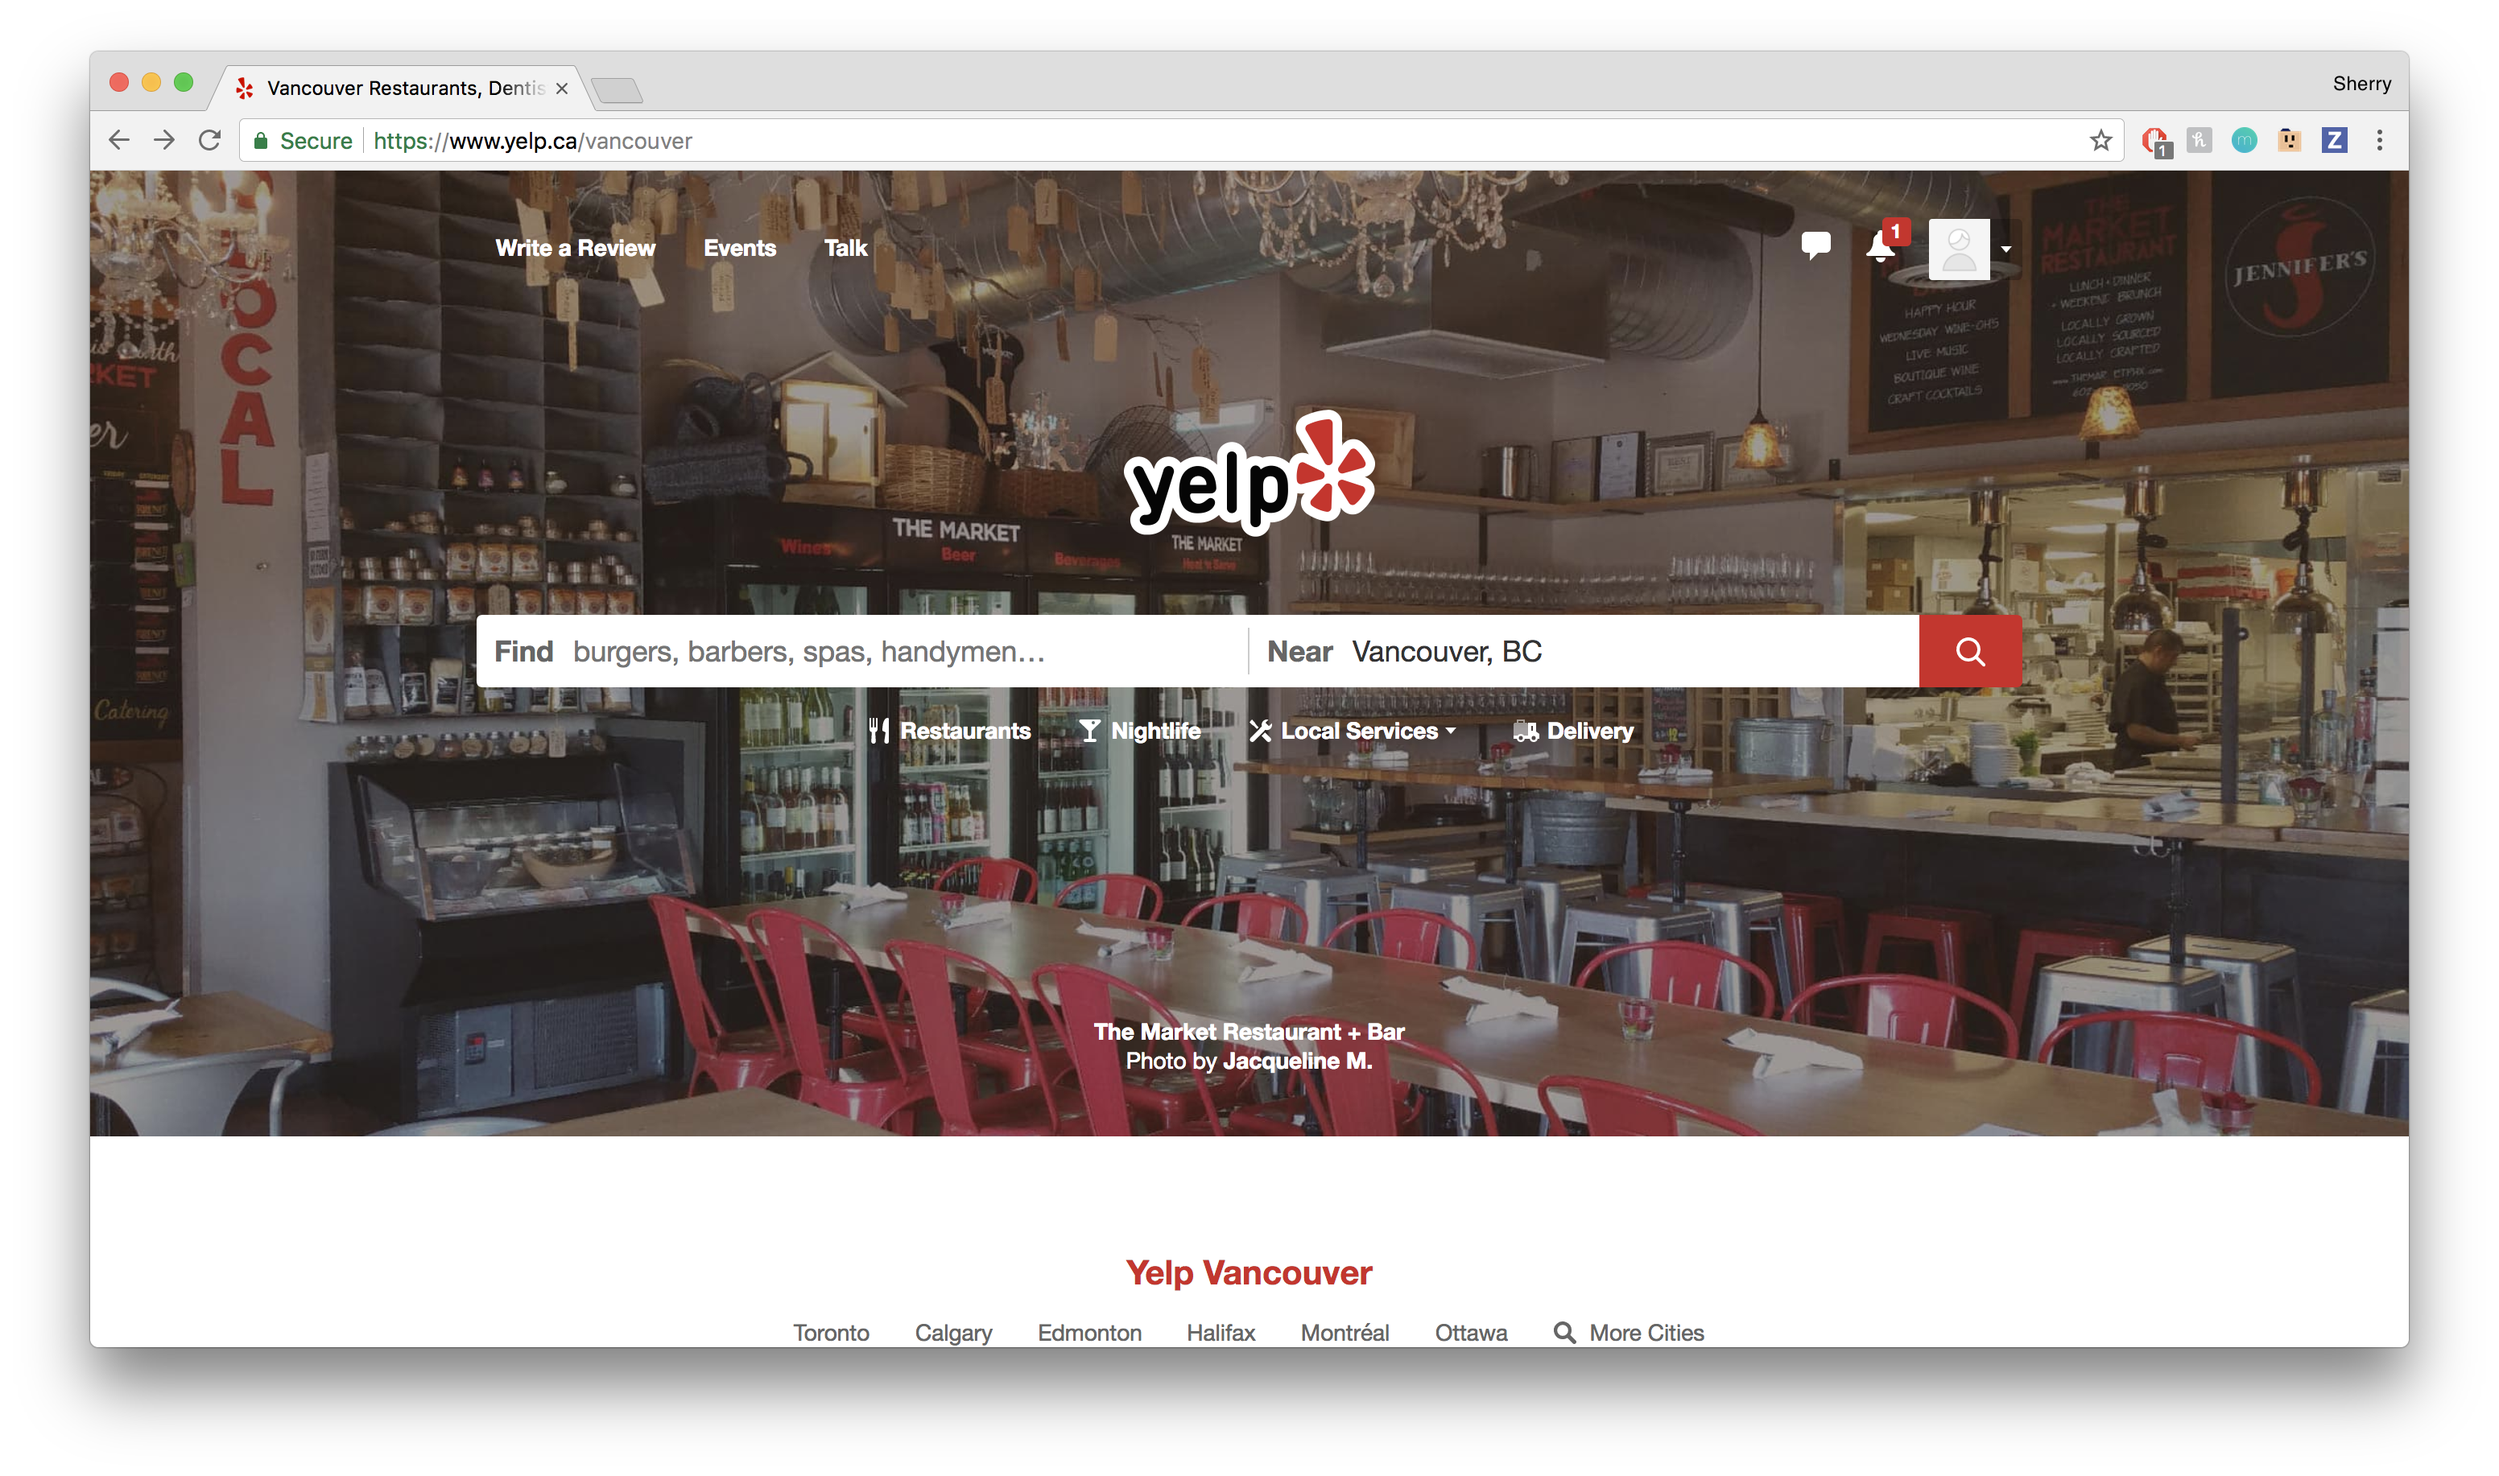
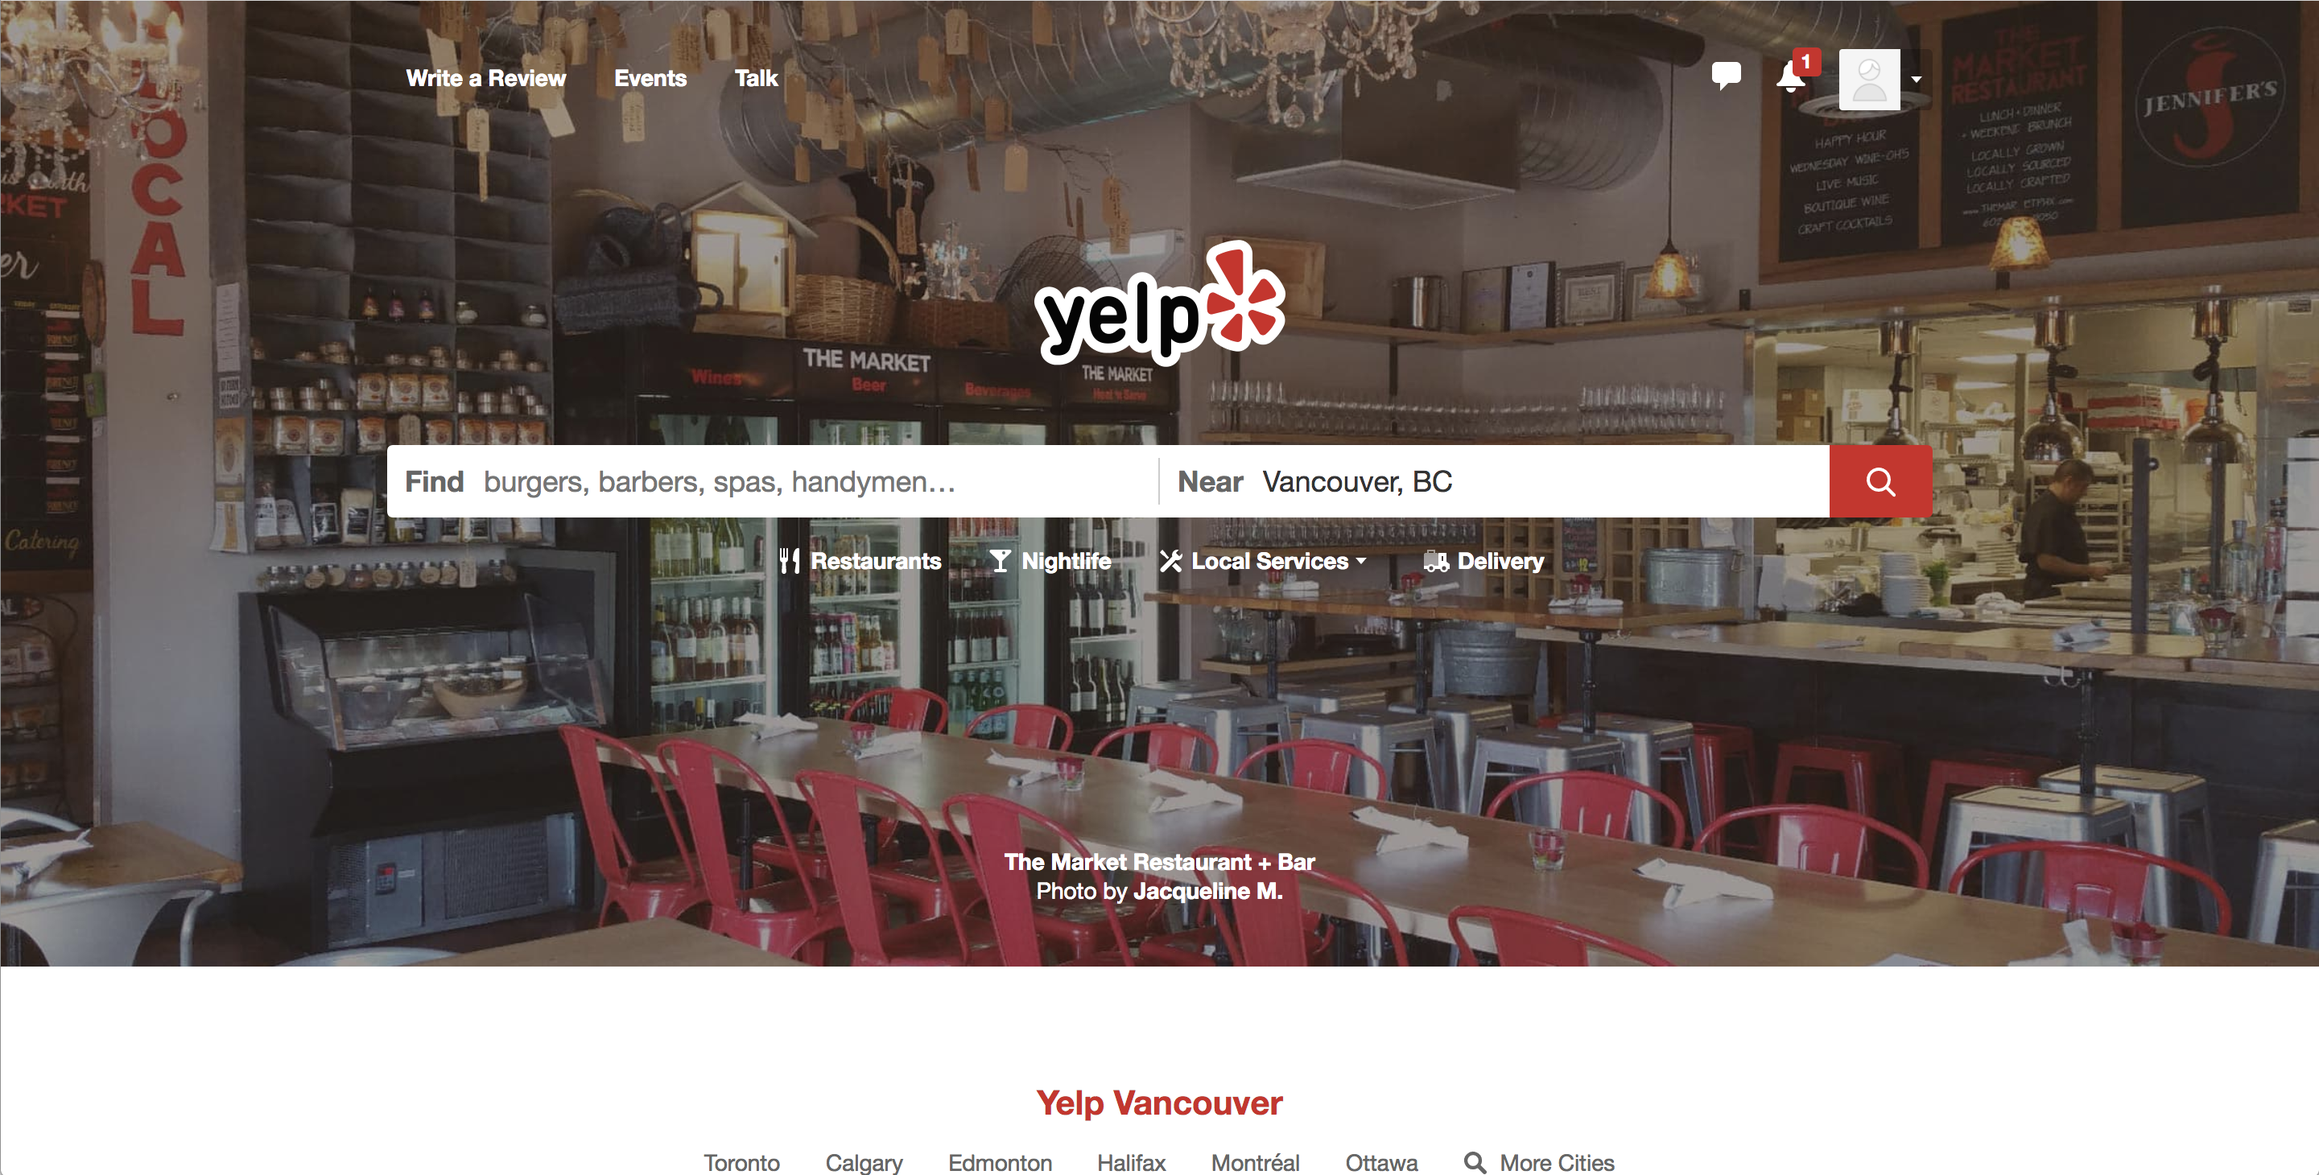
added some pages and images

diff --git a/profile_with_notification.html b/profile_with_notification.html
@@ -1,0 +1,34 @@
+<!DOCTYPE html>
+<html lang="en">
+<head>
+    <meta charset="UTF-8">
+    <link rel="stylesheet" type="text/css" href="style.css">
+    <script src="https://ajax.googleapis.com/ajax/libs/jquery/2.1.3/jquery.min.js"></script>
+    <script src="javascript.js"></script>
+    <title>Yelp</title>
+</head>
+<body>
+    <img class="full_screen" src="images/super_reviewer_notification.png"/>
+    <button id="become_super_reviewer_button">Become a Super Reviewer</button>
+
+    <div id="super_reviewer_info" class="modal">
+
+        <div class="modal-content">
+            <span class="close">&times;</span>
+            <h1>Congratulations</h1>
+            <h1>You are now eligible to apply to be a Super Reviewer</h1>
+            <h3>What is a Super Reviewer?</h3>
+            <p>Lorem ipsum dolor sit amet, consectetur adipiscing elit,
+                sed do eiusmod tempor incididunt ut labore et dolore magna aliqua.</p>
+            <h3>Terms and Conditions</h3>
+            <p>Ut enim ad minim veniam, quis nostrud exercitation ullamco laboris nisi ut aliquip ex ea commodo consequat.
+                Duis aute irure dolor in reprehenderit in voluptate velit esse cillum dolore eu fugiat nulla pariatur.
+                Excepteur sint occaecat cupidatat non proident,
+                sunt in culpa qui officia deserunt mollit anim id est laborum.</p>
+
+            <button id="cancel_button">Cancel</button> <button id="continue_button">Continue</button>
+        </div>
+
+    </div>
+</body>
+</html>

diff --git a/style.css b/style.css
@@ -1,4 +1,58 @@
 .full_screen {
-    height: 100%;
-    width: 100%;
+    max-height: 100%;
+    max-width: 100%;
+}
+
+#front_page {
+    position: relative;
+    display: inline-block;
+}
+
+#notification_button {
+    position: absolute;
+    top: 4%;
+    right: 21%;
+    opacity: 0;
+}
+
+#notification_button:hover {
+    cursor: pointer;
+}
+
+/* The Modal (background) */
+.modal {
+    display: none; /* Hidden by default */
+    position: fixed; /* Stay in place */
+    z-index: 1; /* Sit on top */
+    left: 0;
+    top: 0;
+    width: 100%; /* Full width */
+    height: 100%; /* Full height */
+    overflow: auto; /* Enable scroll if needed */
+    background-color: rgb(0,0,0); /* Fallback color */
+    background-color: rgba(0,0,0,0.4); /* Black w/ opacity */
+}
+
+/* Modal Content/Box */
+.modal-content {
+    background-color: #fefefe;
+    margin: 15% auto; /* 15% from the top and centered */
+    padding: 20px;
+    border: 1px solid #888;
+    width: 80%; /* Could be more or less, depending on screen size */
+}
+
+/* The Close Button */
+.close {
+    color: #aaa;
+    float: right;
+    font-size: 28px;
+    font-weight: bold;
+}
+
+.close:hover,
+.close:focus {
+    color: black;
+    text-decoration: none;
+    cursor: pointer;
 }

diff --git a/javascript.js b/javascript.js
@@ -1,3 +1,32 @@
 /**
  * Created by sherryuan on 2017-11-09.
  */
+$(function () {
+    var approved = false;
+
+    $("#notification_button").click(function() {
+        if (!approved) {
+            window.open("profile_with_notification.html", "_self");
+            approved = true;
+        } else {
+            window.open("profile_with_approval.html", "_self");
+        }
+    });
+
+// When the user clicks on the button, open the modal
+    $("#become_super_reviewer_button").onclick = function() {
+        $("#super_reviewer_info").style.display = "block";
+    };
+
+// When the user clicks on <span> (x), close the modal
+    span.onclick = function() {
+        $("#super_reviewer_info").style.display = "none";
+    };
+
+// When the user clicks anywhere outside of the modal, close it
+    window.onclick = function(event) {
+        if (event.target == $("#super_reviewer_info")) {
+            $("#super_reviewer_info").style.display = "none";
+        }
+    };
+});

diff --git a/index.html b/index.html
@@ -2,11 +2,19 @@
 <html lang="en">
 <head>
     <meta charset="UTF-8">
+    <link rel="stylesheet" type="text/css" href="style.css">
     <script src="https://ajax.googleapis.com/ajax/libs/jquery/2.1.3/jquery.min.js"></script>
     <script src="javascript.js"></script>
     <title>Yelp</title>
 </head>
 <body>
-    <img class="full_screen" src="images/yelp_notification.png"/>
+    <div id="front_page">
+        <img class="full_screen" src="images/yelp_notification.png"/>
+        <button id="notification_button">
+            Super
+            <br>
+            Reviewer
+        </button>
+    </div>
 </body>
 </html>

diff --git a/profile_with_approval.html b/profile_with_approval.html
@@ -1,0 +1,12 @@
+<!DOCTYPE html>
+<html lang="en">
+<head>
+    <meta charset="UTF-8">
+    <link rel="stylesheet" type="text/css" href="style.css">
+    <script src="https://ajax.googleapis.com/ajax/libs/jquery/2.1.3/jquery.min.js"></script>
+    <script src="javascript.js"></script>    <title>Yelp</title>
+</head>
+<body>
+<img class="full_screen" src="images/super_reviewer_approved.png"/>
+</body>
+</html>
